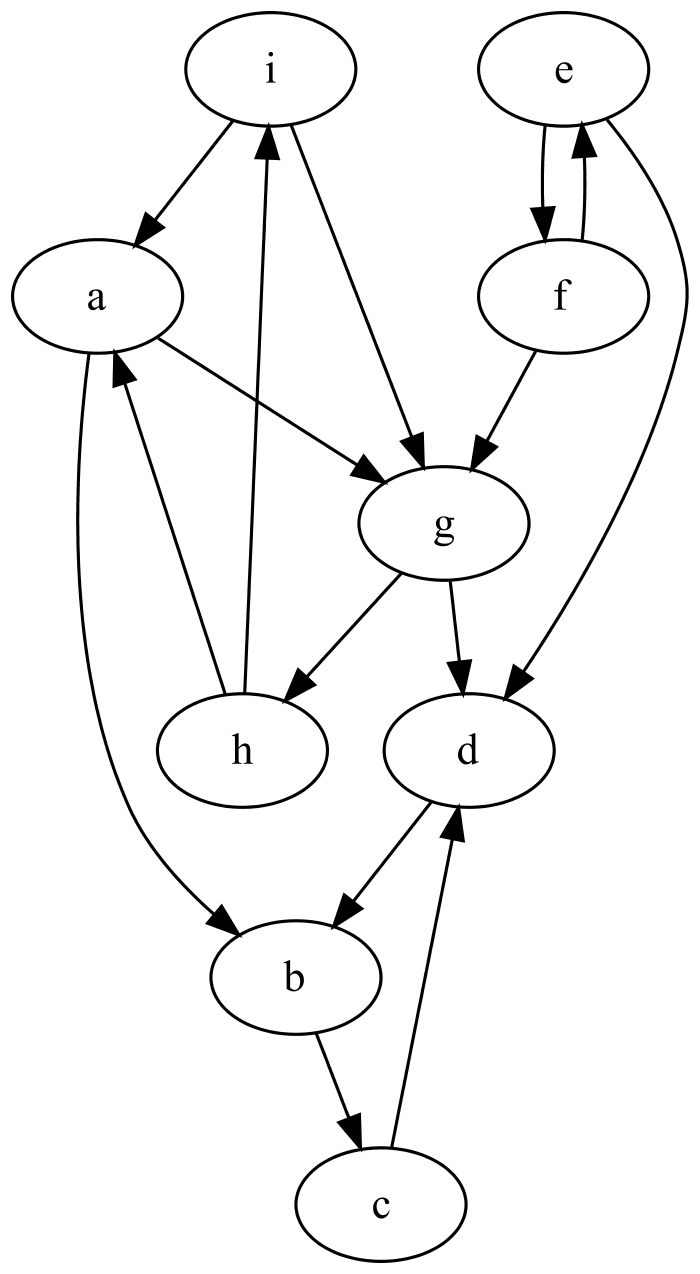
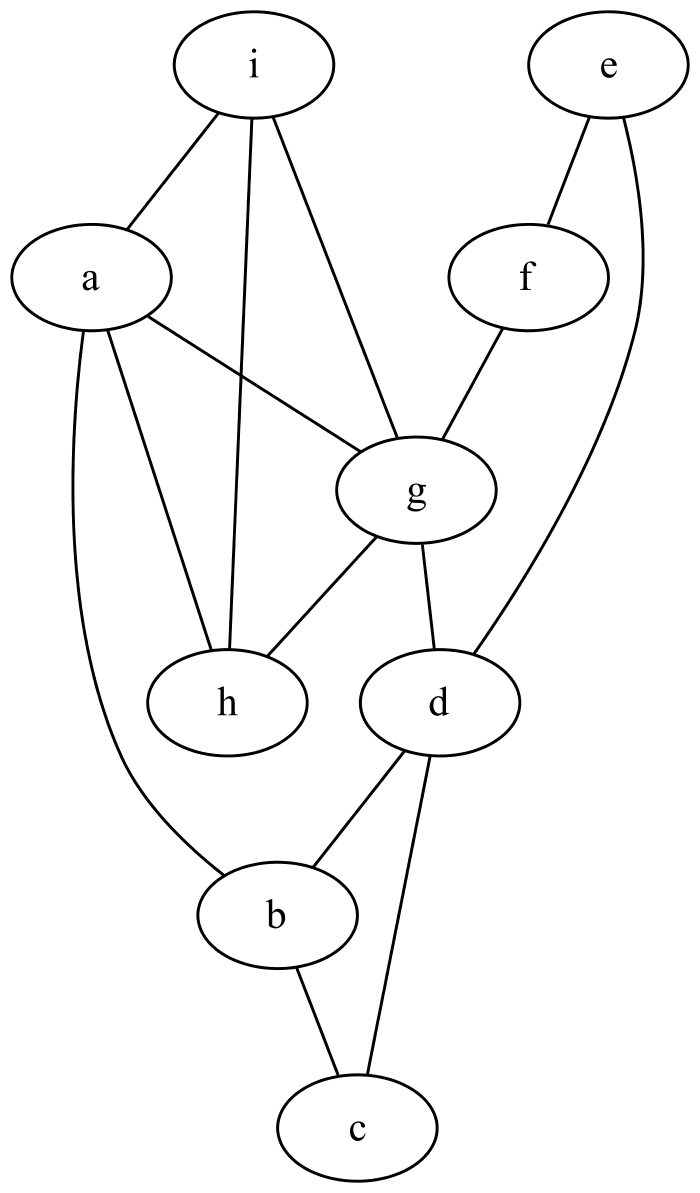
Busca Profundidade

diff --git a/src/main/java/br/com/davesmartins/grafo_api/Grafo.java b/src/main/java/br/com/davesmartins/grafo_api/Grafo.java
@@ -456,14 +456,52 @@ public class Grafo {
         return vertice;
     }
 
-    public void buscaProfundidade(Vertice vertice) {
-        ArrayList<Vertice> visitados = new ArrayList<Vertice>();
-        ArrayList<Vertice> naoVisitados = new ArrayList<Vertice>();
+//    public int buscaProfundidade(Vertice vertice) {
+//        ArrayList<Vertice> visitados = new ArrayList<Vertice>();
+//        ArrayList<Vertice> naoVisitados = new ArrayList<Vertice>();
+//
+//        controle_vertice.add(vertice);
+//
+//        System.out.println("Vertice: " + vertice.getNome() + " -> ");
+//        for (Vertice v : buscaVerticesAdjacentes(vertice)) {
+//            System.out.print(" | " + v.getNome());
+//        }
+//        for (Vertice vert : lista_vertice) {
+//            if (!visitados.contains(vert)) {
+//                buscaProfundidade(vert);
+//            }
+//        }
+//
+//        if (controle_vertice.equals(lista_vertice)) {
+//            return 0;
+//        }
+//        return 0;
+//    }
 
-        visitados.add(vertice);
-        System.out.print("Vertice: "+vertice.getNome());
-        for (Vertice v : buscaVerticesAdjacentes(vertice)) {
-            System.out.print(" -> "+v.getNome());
+    public void buscaLargura(Vertice inicio) {
+        ArrayList<Vertice> fila = new ArrayList<Vertice>();
+        ArrayList<Vertice> visitados = new ArrayList<Vertice>();
+
+        Vertice aux;
+        Vertice i = inicio;
+        fila.add(i);
+        visitados.add(i);
+
+        while (!fila.isEmpty()) {
+            visitados.add(i);
+            System.out.println("\n" + i.getNome() + " -> ");
+            for (Vertice v : buscaVerticesAdjacentes(i)) {
+                System.out.print(v.getNome() + " | ");
+                aux = v;
+                if (!visitados.contains(aux)) {
+                    fila.add(aux);
+                    visitados.add(aux);
+                }
+            }
+            fila.remove(i);
+            if (!fila.isEmpty()) {
+                i = fila.get(0);
+            }
         }
     }
 

diff --git a/src/main/java/br/com/davesmartins/grafo_api/TesteSemMenu.java b/src/main/java/br/com/davesmartins/grafo_api/TesteSemMenu.java
@@ -5,11 +5,11 @@ import java.io.IOException;
 import java.util.Scanner;
 
 public class TesteSemMenu {
-    
+
     public static void main(String[] args) throws IOException {
 //        GrafoOrientado grafo = new GrafoOrientado();
         Grafo grafo = new Grafo();
-        
+
         Vertice a = new Vertice("a");
         Vertice b = new Vertice("b");
         Vertice c = new Vertice("c");
@@ -19,7 +19,7 @@ public class TesteSemMenu {
         Vertice g = new Vertice("g");
         Vertice h = new Vertice("h");
         Vertice i = new Vertice("i");
-        
+
         grafo.addVertice(a);
         grafo.addVertice(b);
         grafo.addVertice(c);
@@ -29,7 +29,7 @@ public class TesteSemMenu {
         grafo.addVertice(g);
         grafo.addVertice(h);
         grafo.addVertice(i);
-        
+
         Aresta a1 = new Aresta(i, a, 4);
         Aresta a2 = new Aresta(i, g, 5);
         Aresta a3 = new Aresta(h, i, 2);
@@ -43,9 +43,8 @@ public class TesteSemMenu {
         Aresta a11 = new Aresta(d, b, 10);
         Aresta a12 = new Aresta(e, d, 10);
         Aresta a13 = new Aresta(e, f, 10);
-        Aresta a14 = new Aresta(f, e, 10);
-        Aresta a15 = new Aresta(f, g, 10);
-        
+        Aresta a14 = new Aresta(f, g, 10);
+
         grafo.addAresta(a1);
         grafo.addAresta(a2);
         grafo.addAresta(a3);
@@ -60,9 +59,8 @@ public class TesteSemMenu {
         grafo.addAresta(a12);
         grafo.addAresta(a13);
         grafo.addAresta(a14);
-        grafo.addAresta(a15);
 
-//        Graph.createStringDotToPng(grafo.dotOrientado(), "antes.png");
-        grafo.buscaProfundidade(a);
+        Graph.createStringDotToPng(grafo.dotSimples(), "antes.png");
+        grafo.buscaLargura(a);
     }
 }
